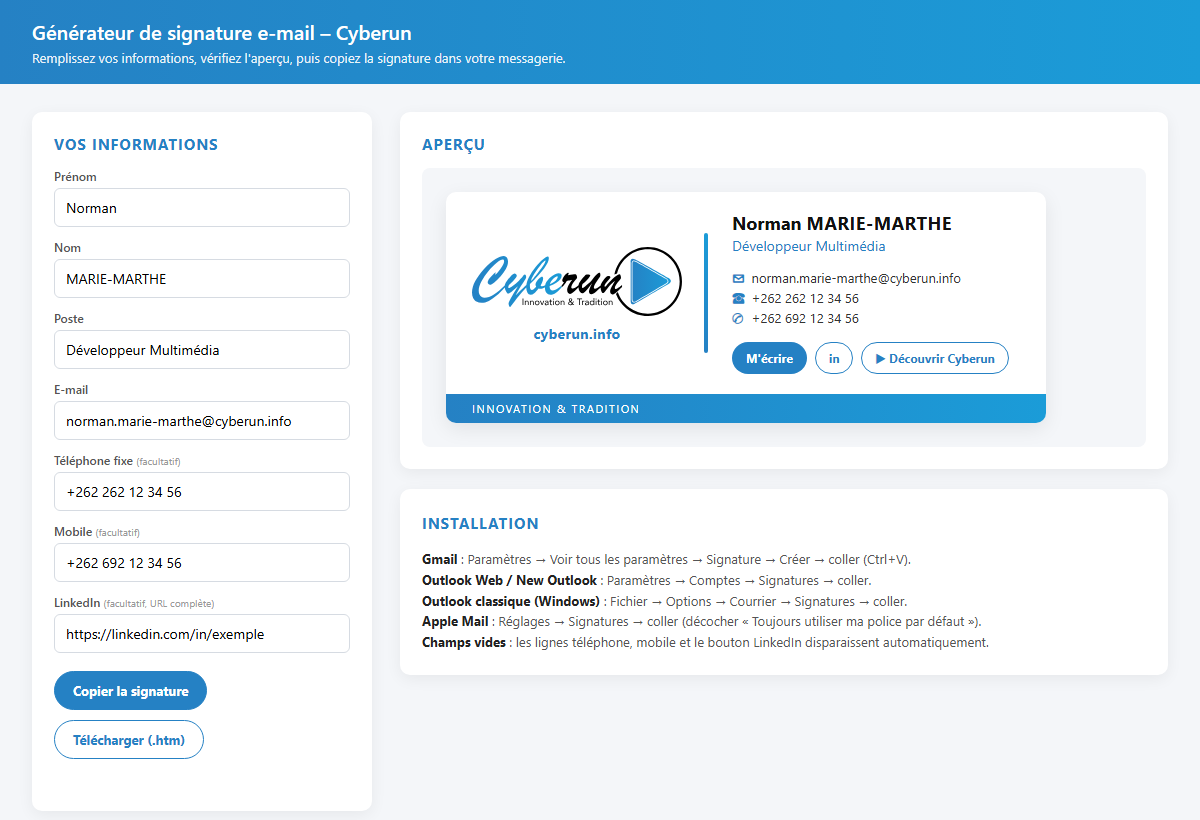
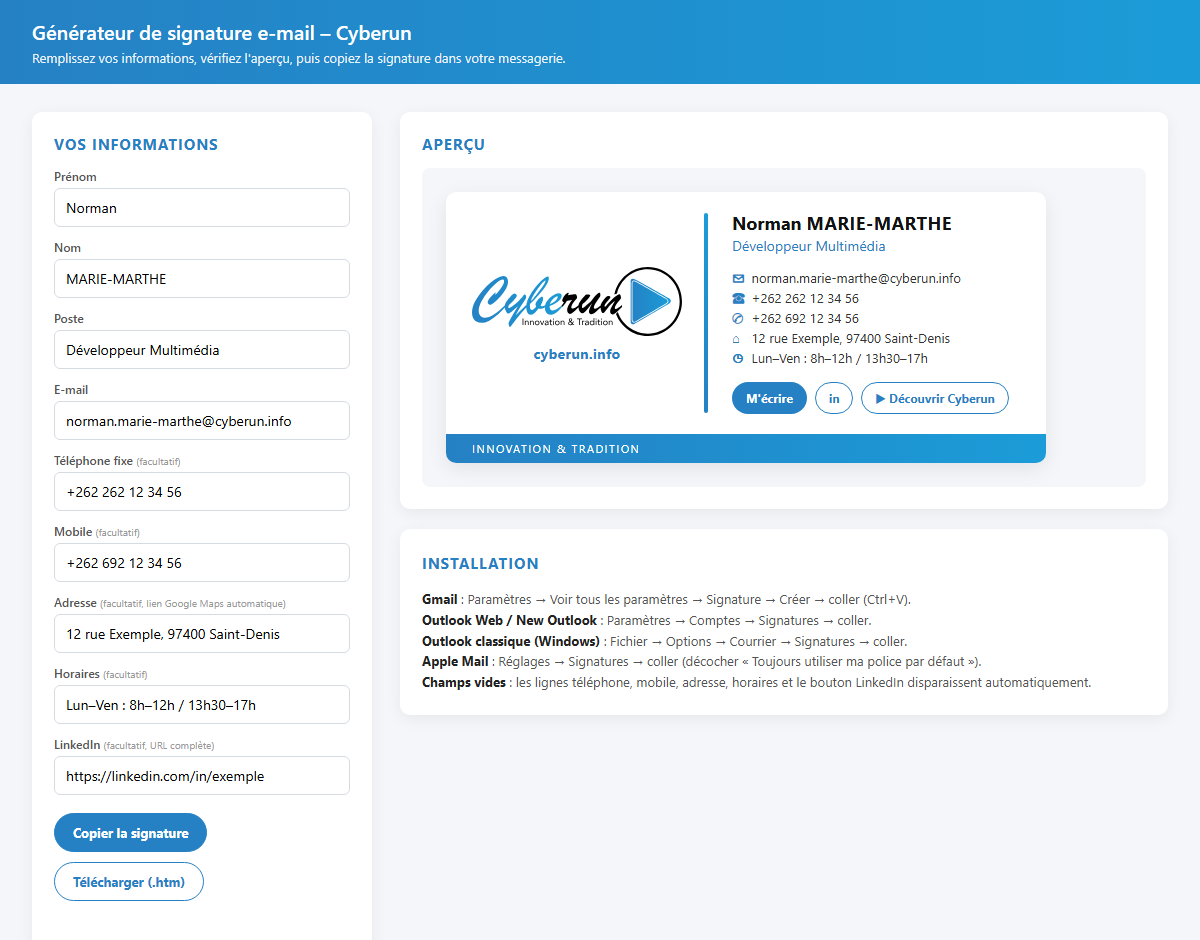
Ajout des champs adresse et horaires

diff --git a/index.html b/index.html
@@ -43,6 +43,8 @@
     <label>E-mail</label><input id="email" type="email" value="norman.marie-marthe@cyberun.info">
     <label>Téléphone fixe <small>(facultatif)</small></label><input id="tel" placeholder="+262 262 00 00 00">
     <label>Mobile <small>(facultatif)</small></label><input id="mobile" placeholder="+262 692 00 00 00">
+    <label>Adresse <small>(facultatif, lien Google Maps automatique)</small></label><input id="adresse" placeholder="12 rue Exemple, 97400 Saint-Denis">
+    <label>Horaires <small>(facultatif)</small></label><input id="horaires" placeholder="Lun–Ven : 8h–12h / 13h30–17h">
     <label>LinkedIn <small>(facultatif, URL complète)</small></label><input id="linkedin" placeholder="https://www.linkedin.com/in/...">
 
     <div class="actions">
@@ -63,7 +65,7 @@
       <b>Outlook Web / New Outlook</b> : Paramètres → Comptes → Signatures → coller.<br>
       <b>Outlook classique (Windows)</b> : Fichier → Options → Courrier → Signatures → coller.<br>
       <b>Apple Mail</b> : Réglages → Signatures → coller (décocher « Toujours utiliser ma police par défaut »).<br>
-      <b>Champs vides</b> : les lignes téléphone, mobile et le bouton LinkedIn disparaissent automatiquement.
+      <b>Champs vides</b> : les lignes téléphone, mobile, adresse, horaires et le bouton LinkedIn disparaissent automatiquement.
     </div>
   </section>
 </main>
@@ -87,9 +89,13 @@ const telHref = s => 'tel:' + s.replace(/[^\d+]/g, '');
 
 function contactRow(icon, href, text) {
   return `<div style="font-size:13px;line-height:20px;color:#333333;">
-      <span style="color:${CONFIG.c1};font-weight:700;display:inline-block;width:16px;">${icon}</span>&nbsp;<a href="${esc(href)}" style="color:#333333;text-decoration:none;">${esc(text)}</a>
+      <span style="color:${CONFIG.c1};font-weight:700;display:inline-block;width:16px;">${icon}</span>&nbsp;${href
+        ? `<a href="${esc(href)}" target="_blank" style="color:#333333;text-decoration:none;">${esc(text)}</a>`
+        : `<span style="color:#333333;">${esc(text)}</span>`}
     </div>`;
 }
+
+const mapsHref = s => 'https://www.google.com/maps/search/?api=1&query=' + encodeURIComponent(s);
 
 function btn(href, label, filled) {
   const s = filled
@@ -103,6 +109,9 @@ function buildSignature(d) {
   const rows = [contactRow('✉', 'mailto:' + d.email, d.email)];
   if (d.tel)    rows.push(contactRow('☎', telHref(d.tel), d.tel));
   if (d.mobile) rows.push(contactRow('✆', telHref(d.mobile), d.mobile));
+  if (d.adresse)  rows.push(contactRow('⌂', mapsHref(d.adresse), d.adresse));
+  if (d.horaires) rows.push(contactRow('◷', '', d.horaires));
+  const sepHeight = 100 + rows.length * 20;
 
   const buttons = [btn('mailto:' + d.email, "M'écrire", true)];
   if (d.linkedin) buttons.push(btn(d.linkedin, 'in', false));
@@ -120,7 +129,7 @@ function buildSignature(d) {
       <a href="${C.site}" target="_blank" style="display:inline-block;margin-top:8px;font-size:14px;font-weight:700;color:${C.c1};text-decoration:none;letter-spacing:.3px;">${C.siteLabel}</a>
     </td>
     <td style="width:4px;padding:18px 0;">
-      <div style="width:4px;height:120px;border-radius:4px;background:${C.c1};background:linear-gradient(180deg,${C.c2} 0%,${C.c1} 100%);"></div>
+      <div style="width:4px;height:${sepHeight}px;border-radius:4px;background:${C.c1};background:linear-gradient(180deg,${C.c2} 0%,${C.c1} 100%);"></div>
     </td>
     <td valign="middle" style="padding:20px 26px 20px 24px;">
       <div style="font-size:18px;font-weight:700;color:#111111;line-height:22px;">${esc(d.prenom)} <span style="letter-spacing:.5px;">${esc(d.nom.toUpperCase())}</span></div>
@@ -135,7 +144,7 @@ function buildSignature(d) {
 </table>`;
 }
 
-const fields = ['prenom','nom','poste','email','tel','mobile','linkedin'];
+const fields = ['prenom','nom','poste','email','tel','mobile','adresse','horaires','linkedin'];
 const data = () => Object.fromEntries(fields.map(f => [f, $(f).value.trim()]));
 const render = () => { $('preview').innerHTML = buildSignature(data()); };
 fields.forEach(f => $(f).addEventListener('input', render));

diff --git a/README.md b/README.md
@@ -7,7 +7,7 @@ Générateur de signature e-mail moderne et interactif aux couleurs de Cyberun (
 ## 🚀 Utilisation (employés)
 
 1. Ouvrir le générateur : **https://coolj974.github.io/signature-mail-cyberun/**
-2. Remplir prénom, nom, poste, e-mail et, si besoin, téléphone fixe, mobile et LinkedIn. Les champs vides n'apparaissent pas dans la signature.
+2. Remplir prénom, nom, poste, e-mail et, si besoin, téléphone fixe, mobile, adresse (lien Google Maps automatique), horaires et LinkedIn. Les champs vides n'apparaissent pas dans la signature.
 3. Cliquer sur **Copier la signature**, puis la coller dans la messagerie :
    - **Gmail** : Paramètres → Voir tous les paramètres → Signature → Créer → Ctrl+V
    - **Outlook Web / nouvel Outlook** : Paramètres → Comptes → Signatures → Ctrl+V
